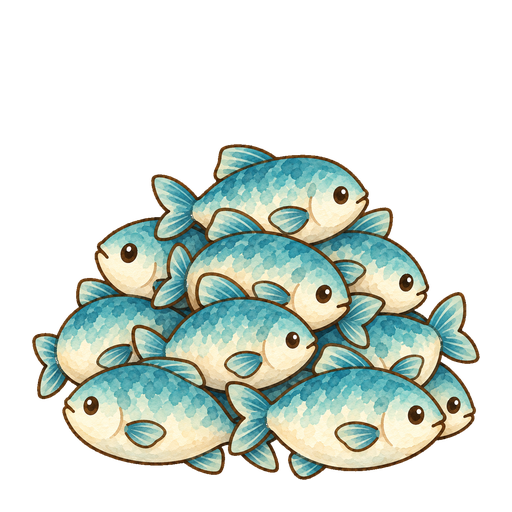
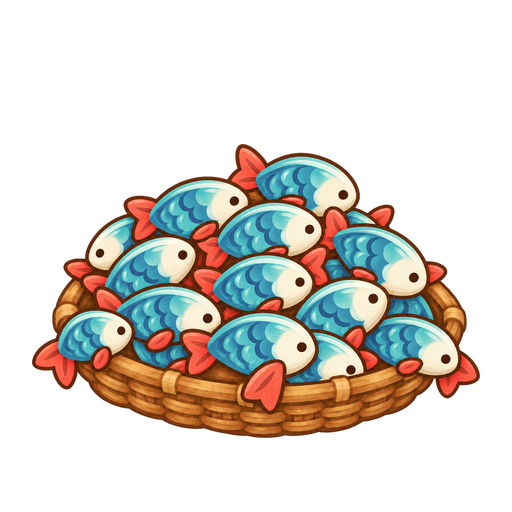
[FEAT] GROMO-1920 물고기 에셋과 집중 단계 반영

diff --git a/app/app-dev/src/screens/focus/FocusSea.tsx b/app/app-dev/src/screens/focus/FocusSea.tsx
@@ -15,6 +15,7 @@ import { assets, cat } from '@/constants/assets';
 import Svg, { Path, Ellipse } from 'react-native-svg';
 import { C, T } from '@/design-system/primitives';
 import { State, sessionSeconds, currentIsland, Color, SECONDS_PER_FISH } from '@/services/model';
+import { catchAssetPath } from '@/screens/focus/catchAssets';
 export const clock = (n: number) =>
   `${Math.floor(n / 60)
     .toString()
@@ -142,33 +143,19 @@ function FishingBoat({
           strokeWidth={0.6}
         />
       </Svg>
-      {caught > 0 &&
-        (caught < 40 ? (
-          Array.from({ length: caught }, (_, i) => (
-            <Image
-              key={i}
-              source={assets['props/fishing/catch/single.png']}
-              style={{
-                position: 'absolute',
-                width: 20,
-                height: 20,
-                bottom: 25 + Math.floor(i / 4) * 9,
-                left: 38 + (i % 4) * 10,
-              }}
-            />
-          ))
-        ) : (
-          <Image
-            source={assets[`props/fishing/catch/${caught < 120 ? 'pile-small' : 'pile-large'}.png`]}
-            style={{
-              position: 'absolute',
-              width: 60,
-              height: 45,
-              bottom: 18,
-              left: 38,
-            }}
-          />
-        ))}
+      {caught > 0 && (
+        <Image
+          source={assets[catchAssetPath(caught)]}
+          resizeMode="contain"
+          style={{
+            position: 'absolute',
+            width: 64,
+            height: 64,
+            bottom: 12,
+            left: 36,
+          }}
+        />
+      )}
       {phase && (
         <Animated.Image
           source={assets['props/fishing/catch/single.png']}

diff --git a/app/app-dev/src/screens/focus/FishingIsland.tsx b/app/app-dev/src/screens/focus/FishingIsland.tsx
@@ -19,6 +19,7 @@ import { Color, SECONDS_PER_FISH } from '@/services/model';
 import { Grid, Point, nearestLand } from '@/utils/world-grid';
 import { useAppLayout } from '@/utils/layout';
 import land from '@/constants/fishing-island.json';
+import { catchAssetPath } from '@/screens/focus/catchAssets';
 
 // v2 시안 낚시섬(focus-island-flow): 좌표는 지도 가로·세로 % (0~100). 지도는 섬 그림(1536×1024) 비율 그대로.
 // 땅 격자는 시안 land_mask 와 같은 50×50 칸(파란 칸 = 물).
@@ -590,18 +591,14 @@ export function FishingActor({
       </View>
       {count > 0 && (
         <Image
-          source={
-            assets[
-              `props/fishing/catch/${count >= 24 ? 'pile-large' : count >= 8 ? 'pile-small' : 'single'}.png`
-            ]
-          }
+          source={assets[catchAssetPath(count)]}
           resizeMode="contain"
           style={{
             position: 'absolute',
-            left: -a * 0.58,
-            bottom: -a * 0.09,
-            width: a * 0.6,
-            height: a * 0.6,
+            left: -a,
+            bottom: -a * 0.16,
+            width: a * 1.1,
+            height: a * 1.1,
           }}
         />
       )}

diff --git a/app/app-dev/src/constants/assets.ts b/app/app-dev/src/constants/assets.ts
@@ -162,6 +162,7 @@ export const assets: Record<string, ImageSourcePropType> = {
   'characters/cat/calico/fishing/fishing-frame-2.png': require('@/assets/characters/cat/calico/fishing/fishing-frame-2.png'),
   'characters/cat/calico/fishing/fishing-frame-3.png': require('@/assets/characters/cat/calico/fishing/fishing-frame-3.png'),
   'props/fishing/catch/pile-large.png': require('@/assets/props/fishing/catch/pile-large.png'),
+  'props/fishing/catch/pile-medium.png': require('@/assets/props/fishing/catch/pile-medium.png'),
   'props/fishing/catch/pile-small.png': require('@/assets/props/fishing/catch/pile-small.png'),
   'props/fishing/catch/single.png': require('@/assets/props/fishing/catch/single.png'),
   'characters/cat/calico/fishing/reel-frame-3.png': require('@/assets/characters/cat/calico/fishing/reel-frame-3.png'),

diff --git a/app/app-dev/src/screens/focus/catchAssets.test.ts b/app/app-dev/src/screens/focus/catchAssets.test.ts
@@ -1,0 +1,14 @@
+import { catchAssetPath } from '@/screens/focus/catchAssets';
+
+test.each([
+  [1, 'single'],
+  [59, 'single'],
+  [60, 'pile-small'],
+  [119, 'pile-small'],
+  [120, 'pile-medium'],
+  [179, 'pile-medium'],
+  [180, 'pile-large'],
+  [240, 'pile-large'],
+])('%i분 집중의 물고기 더미는 %s 단계다', (caught, name) => {
+  expect(catchAssetPath(caught)).toBe(`props/fishing/catch/${name}.png`);
+});

diff --git a/app/app-dev/src/screens/focus/catchAssets.ts b/app/app-dev/src/screens/focus/catchAssets.ts
@@ -1,0 +1,10 @@
+export const catchAssetPath = (caught: number) =>
+  `props/fishing/catch/${
+    caught >= 180
+      ? 'pile-large'
+      : caught >= 120
+        ? 'pile-medium'
+        : caught >= 60
+          ? 'pile-small'
+          : 'single'
+  }.png`;

diff --git a/app/app-dev/src/constants/art.ts b/app/app-dev/src/constants/art.ts
@@ -60,3 +60,5 @@ export const art: Record<string, ImageSourcePropType> = {
 };
 
 Object.assign(art, referenceArt);
+art.fish = require('@/assets/redesign/fish.png');
+art['fish/gold'] = require('@/assets/redesign/fish-gold.png');
